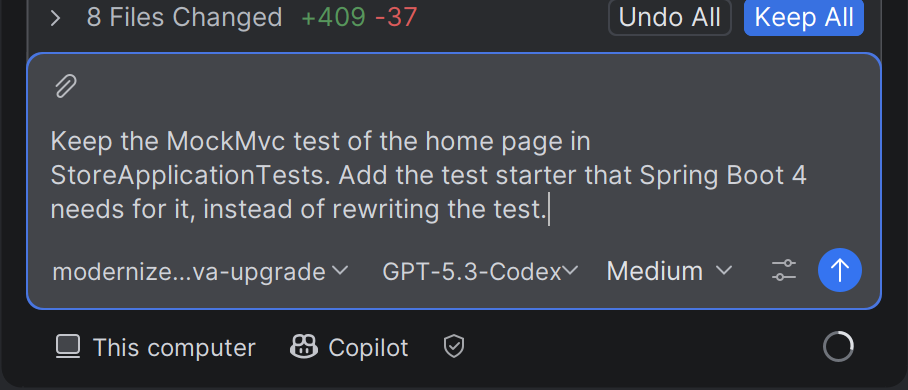
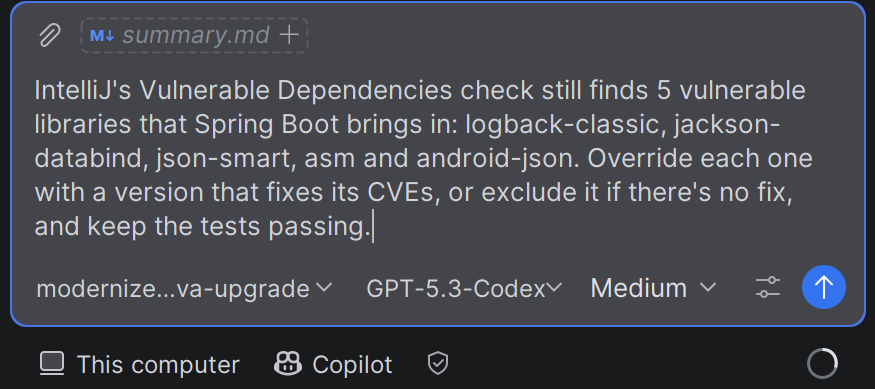
Week 5: re-run the upgrade and check the libraries with IntelliJ
A review found that the upgrade could skip the build and tests, keep JUnit 4,
and miss vulnerable libraries. The new prompt asks for JDK 25, JUnit Jupiter
without changing the checks, and libraries without known CVEs. The solution
now uses IntelliJ's Vulnerable Dependencies check before and after: 25 issues
on the old app, 5 left after the upgrade, none after a follow-up prompt.
All screenshots are from the new run.

diff --git a/05-app-modernization/SOLUTION.md b/05-app-modernization/SOLUTION.md
@@ -6,58 +6,166 @@ How to solve [the challenge](README.md) with GitHub Copilot in IntelliJ IDEA.
 
 Open `05-app-modernization` in its own window, and install the **GitHub Copilot modernization** plugin, as in the README.
 
-1. **Turn on the plugin's tools.** In the chat box, click **Configure tools** (the sliders icon). Search for `appmod`, and make sure **appmod-mcp-server** is ticked. If it says **Stopped**, click **Start**. Then click **Apply**. With these tools, Copilot plans the upgrade, builds the app, runs the tests and checks for CVEs.
+1. **See what's vulnerable.** Choose Code → Analyze Code → **Vulnerable Dependencies**. The Problems tool window opens on its **Security** tab: the old app has 25 issues. Click a library to see its CVEs.
+
+   ![Vulnerable Dependencies finds 25 issues, and shows the CVEs of Guava 28.1-jre](../screenshots/05-app-modernization/vulnerable-before.png)
+
+2. **Turn on the plugin's tools.** In the chat box, click **Configure tools** (the sliders icon). Search for `appmod`, and make sure **appmod-mcp-server** is ticked. If it says **Stopped**, click **Start**. Then click **Apply**. With these tools, Copilot plans the upgrade, builds the app, runs the tests and checks for CVEs.
 
    ![Configure Tools, with appmod-mcp-server ticked and running, and its upgrade plan, build, CVE and test tools](../screenshots/05-app-modernization/tools.png)
 
-2. **Ask the upgrade agent.** Start a new chat, and choose the **modernize-java-upgrade** agent. Under the chat box, make sure it says **Copilot**, not **Local**. Then send:
+3. **Ask the upgrade agent.** Start a new chat, and choose the **modernize-java-upgrade** agent. Under the chat box, make sure it says **Copilot**, not **Local**. Then send:
 
-   > Upgrade this app to Java 25 and the latest Spring Boot 4
+   > Upgrade this app to Java 25 and the latest Spring Boot 4. Use the JDK 25 that's installed, move the tests to JUnit Jupiter without changing what they check, and upgrade any library with known CVEs.
 
    ![The modernize-java-upgrade agent with the prompt, running on this computer with Copilot](../screenshots/05-app-modernization/prompt.png)
 
-   The **Upgrade Runtime & Frameworks** button in the tool window starts the same upgrade, but in a **Local** chat. With version 1.14.0 of the plugin, that chat stops at its first command, because the plugin stops IntelliJ's terminal from starting ([known issue](https://github.com/microsoft/github-copilot-appmod/issues/213)). The **Copilot** chat runs commands without IntelliJ's terminal.
+   The **Upgrade Runtime & Frameworks** button in the tool window starts an upgrade too, but in a **Local** chat. With version 1.14.0 of the plugin, that chat stops at its first command, because the plugin stops IntelliJ's terminal from starting ([known issue](https://github.com/microsoft/github-copilot-appmod/issues/213)). The **Copilot** chat runs commands without IntelliJ's terminal.
 
-3. **Check the plan.** Copilot writes an upgrade plan, `plan.md`, in `.github/modernize/java-upgrade/`: the goals, and each library's current and new version. Then it makes a branch, `appmod/java-upgrade-<id>`, and upgrades in steps. It builds the app after each step, and commits it.
+4. **Check the plan.** Copilot writes an upgrade plan, `plan.md`, in `.github/modernize/java-upgrade/`: your guidelines, the goals, and each library's current and new version. Then it makes a branch, `appmod/java-upgrade-<id>`, and upgrades in steps, sometimes through Spring Boot 3.5 on the way. It builds the app after each step, and commits it.
 
-   ![plan.md: the goals are Java 25 and Spring Boot 4.1.2, and a table lists each technology's current version and the version it needs](../screenshots/05-app-modernization/plan.png)
+   ![plan.md: the guidelines from the prompt, and the goals: Java 25, Spring Boot 4.1.2, JUnit Jupiter, and no libraries with known CVEs](../screenshots/05-app-modernization/plan.png)
 
-4. **Read the summary.** At the end, Copilot checks the libraries for known CVEs, runs the tests, and writes `summary.md` next to the plan. In this run, the upgrade took about 7 minutes.
+   If Copilot tries to download another JDK for a step, and the download fails, tell it to use JDK 25 for every step.
 
-   ![summary.md: Java 1.8 to 25, Spring Boot 2.7.18 to 4.1.2, javax to jakarta, JUnit 4 to JUnit 5, Guava 28.1 to 33.8, and no known CVEs](../screenshots/05-app-modernization/summary.png)
+5. **Read the summary.** At the end, Copilot checks the libraries for known CVEs, runs the tests, and writes `summary.md` next to the plan. In this run, the upgrade took about 8 minutes. Make sure the summary says the build and tests passed, and that the tests still check what they did before.
 
-5. **Check the tests.** Review what Copilot changed, especially in the tests. Spring Boot 4 moved MockMvc to its own test starter. So, in this run, Copilot rewrote the MockMvc test of the home page as a unit test of the controller: it passed, but it no longer tested the page. If yours did that too, send:
+   ![summary.md: Java 8 to 25, Spring Boot 2.7.18 to 4.1.2, javax to jakarta, JUnit 4 to JUnit Jupiter, and Guava 28.1 to 33.8.0](../screenshots/05-app-modernization/summary.png)
 
-   > Keep the MockMvc test of the home page in StoreApplicationTests. Add the test starter that Spring Boot 4 needs for it, instead of rewriting the test.
+6. **Check the libraries yourself.** Click **Keep All**, press Ctrl+Shift+O to load the Maven changes, and run Vulnerable Dependencies again. Copilot's CVE check only looks at the libraries in `pom.xml`, so it misses the ones that Spring Boot brings in. In this run, 5 were left:
 
-   ![The follow-up prompt, after the upgrade changed 8 files](../screenshots/05-app-modernization/fix-prompt.png)
+   ![Vulnerable Dependencies finds 5 issues: logback-classic, android-json, jackson-databind, json-smart and asm](../screenshots/05-app-modernization/vulnerable-after.png)
 
-6. **Run the store.** Click **Keep All**. Press Ctrl+Shift+O to load the Maven changes, and run **StoreApplication** from the toolbar. http://localhost:8080 shows the six products, and Spring Boot 4.
+   Send, with the libraries that your check finds:
+
+   > IntelliJ's Vulnerable Dependencies check still finds 5 vulnerable libraries that Spring Boot brings in: logback-classic, jackson-databind, json-smart, asm and android-json. Override each one with a version that fixes its CVEs, or exclude it if there's no fix, and keep the tests passing.
+
+   ![The follow-up prompt in the chat box](../screenshots/05-app-modernization/fix-prompt.png)
+
+   Copilot pins fixed versions in `pom.xml`, and swaps android-json, which has no fix, for org.json. Click **Keep All**, press Ctrl+Shift+O, and run the check again.
+
+   ![Vulnerable Dependencies: no issues found](../screenshots/05-app-modernization/vulnerable-fixed.png)
+
+7. **Run the store.** Run **StoreApplication** from the toolbar. http://localhost:8080 shows the six products, and Spring Boot 4.
 
    ![Trail Store on Spring Boot 4.1.2, with the six products](../screenshots/05-app-modernization/store.png)
 
 ## What you used
 
-- **GitHub Copilot modernization**: its **modernize-java-upgrade** agent plans the upgrade, changes the code in steps, and builds and tests the app after each step. Its **appmod-mcp-server** tools do the planning, building, testing and CVE check. The plan, progress and summary stay in `.github/modernize/java-upgrade/`, which git ignores.
+- **GitHub Copilot modernization**: its **modernize-java-upgrade** agent plans the upgrade, changes the code in steps, and builds and tests the app after each step. Its **appmod-mcp-server** tools do the planning, building, testing and CVE check. The plan, progress and summary are in `.github/modernize/java-upgrade/`.
+- **Vulnerable dependencies**: IntelliJ's own check of your libraries, with data from Mend.io. It also finds the libraries that other libraries bring in.
 
 ## The code
 
-Copilot's changes, after the follow-up prompt. In `pom.xml`:
+Copilot's changes, after both prompts. Yours can differ: Copilot can pick other versions, or another fix for the same CVE. What matters is that the README's checks pass.
 
-```diff
--        <version>2.7.18</version>
-+        <version>4.1.2</version>
+`pom.xml`:
 
--        <java.version>1.8</java.version>
-+        <java.version>25</java.version>
-
--            <version>28.1-jre</version>
-+            <version>33.8.0-jre</version>
-
--            <groupId>org.junit.vintage</groupId>
--            <artifactId>junit-vintage-engine</artifactId>
-+            <groupId>org.springframework.boot</groupId>
-+            <artifactId>spring-boot-starter-webmvc-test</artifactId>
+```xml
+<?xml version="1.0" encoding="UTF-8"?>
+<project xmlns="http://maven.apache.org/POM/4.0.0"
+         xmlns:xsi="http://www.w3.org/2001/XMLSchema-instance"
+         xsi:schemaLocation="http://maven.apache.org/POM/4.0.0 https://maven.apache.org/xsd/maven-4.0.0.xsd">
+    <modelVersion>4.0.0</modelVersion>
+    <parent>
+        <groupId>org.springframework.boot</groupId>
+        <artifactId>spring-boot-starter-parent</artifactId>
+        <version>4.1.2</version>
+        <relativePath/>
+    </parent>
+    <groupId>com.contoso</groupId>
+    <artifactId>trail-store-app-modernization</artifactId>
+    <version>1.0.0</version>
+    <name>Trail Store - Week 5: App modernization</name>
+    <properties>
+        <java.version>25</java.version>
+        <jackson.databind.version>3.1.8</jackson.databind.version>
+        <logback.classic.version>1.6.6</logback.classic.version>
+        <json.smart.version>2.6.1</json.smart.version>
+        <asm.version>9.11.1</asm.version>
+        <org.json.version>20260814</org.json.version>
+    </properties>
+    <dependencyManagement>
+        <dependencies>
+            <dependency>
+                <groupId>tools.jackson.core</groupId>
+                <artifactId>jackson-databind</artifactId>
+                <version>${jackson.databind.version}</version>
+            </dependency>
+            <dependency>
+                <groupId>ch.qos.logback</groupId>
+                <artifactId>logback-classic</artifactId>
+                <version>${logback.classic.version}</version>
+            </dependency>
+            <dependency>
+                <groupId>ch.qos.logback</groupId>
+                <artifactId>logback-core</artifactId>
+                <version>${logback.classic.version}</version>
+            </dependency>
+            <dependency>
+                <groupId>net.minidev</groupId>
+                <artifactId>json-smart</artifactId>
+                <version>${json.smart.version}</version>
+            </dependency>
+            <dependency>
+                <groupId>org.ow2.asm</groupId>
+                <artifactId>asm</artifactId>
+                <version>${asm.version}</version>
+            </dependency>
+        </dependencies>
+    </dependencyManagement>
+    <dependencies>
+        <dependency>
+            <groupId>org.springframework.boot</groupId>
+            <artifactId>spring-boot-starter-web</artifactId>
+        </dependency>
+        <dependency>
+            <groupId>org.springframework.boot</groupId>
+            <artifactId>spring-boot-starter-thymeleaf</artifactId>
+        </dependency>
+        <dependency>
+            <groupId>com.google.guava</groupId>
+            <artifactId>guava</artifactId>
+            <version>33.8.0-jre</version>
+        </dependency>
+        <dependency>
+            <groupId>org.springframework.boot</groupId>
+            <artifactId>spring-boot-starter-test</artifactId>
+            <scope>test</scope>
+            <exclusions>
+                <exclusion>
+                    <groupId>com.vaadin.external.google</groupId>
+                    <artifactId>android-json</artifactId>
+                </exclusion>
+            </exclusions>
+        </dependency>
+        <dependency>
+            <groupId>org.springframework.boot</groupId>
+            <artifactId>spring-boot-starter-webmvc-test</artifactId>
+            <scope>test</scope>
+            <exclusions>
+                <exclusion>
+                    <groupId>com.vaadin.external.google</groupId>
+                    <artifactId>android-json</artifactId>
+                </exclusion>
+            </exclusions>
+        </dependency>
+        <dependency>
+            <groupId>org.json</groupId>
+            <artifactId>json</artifactId>
+            <version>${org.json.version}</version>
+            <scope>test</scope>
+        </dependency>
+    </dependencies>
+    <build>
+        <plugins>
+            <plugin>
+                <groupId>org.springframework.boot</groupId>
+                <artifactId>spring-boot-maven-plugin</artifactId>
+            </plugin>
+        </plugins>
+    </build>
+</project>
 ```
 
 In `Catalog.java` and `StoreController.java`, `javax` becomes `jakarta`:
@@ -70,7 +178,7 @@ In `Catalog.java` and `StoreController.java`, `javax` becomes `jakarta`:
 +import jakarta.servlet.http.HttpServletResponse;
 ```
 
-In `CatalogTest.java` and `StoreApplicationTests.java`, JUnit 4 becomes JUnit 5, and `AutoConfigureMockMvc` moves to a new package:
+In `CatalogTest.java` and `StoreApplicationTests.java`, JUnit 4 becomes JUnit Jupiter, and `AutoConfigureMockMvc` moves to a new package:
 
 ```diff
 -import static org.junit.Assert.assertEquals;

diff --git a/README.md b/README.md
@@ -8,7 +8,7 @@ Each week has a simple challenge to solve in IntelliJ IDEA with GitHub Copilot, 
 | 2 | Tooling | Customization panel, built-in MCP server, browser use | [Free jackets](02-tooling/README.md) | [Solution](02-tooling/SOLUTION.md) |
 | 3 | Secure execution and governance | Local sandbox, managed settings and Policy Diagnostics, cloud sandbox | [Keep your secrets secret](03-secure-execution/README.md) | [Solution](03-secure-execution/SOLUTION.md) |
 | 4 | AI FinOps | Copilot Fusion, agent debug logs, OpenTelemetry | [What does a task cost?](04-ai-finops/README.md) | [Solution](04-ai-finops/SOLUTION.md) |
-| 5 | App modernization | GitHub Copilot modernization plugin: upgrade agent, CVE check | [An old app, a new home](05-app-modernization/README.md) | [Solution](05-app-modernization/SOLUTION.md) |
+| 5 | App modernization | GitHub Copilot modernization plugin, vulnerable dependencies check | [An old app, a new home](05-app-modernization/README.md) | [Solution](05-app-modernization/SOLUTION.md) |
 
 ## What you need
 
